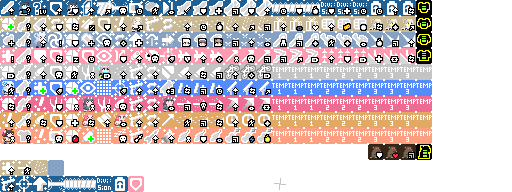
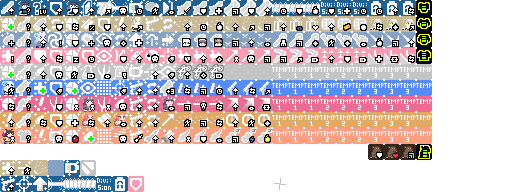
시로코 특성 아이콘 수정, 기본 문장 추가, 소개 문장 수정

Changed region(s): [[0.1562, 0.3125, 0.5312, 0.4375], [0.125, 0.8125, 0.1875, 0.9375], [0.0, 0.375, 0.0312, 0.4062]]

diff --git a/core/src/main/java/com/shatteredpixel/shatteredpixeldungeon/windows/WndHeroInfo.java b/core/src/main/java/com/shatteredpixel/shatteredpixeldungeon/windows/WndHeroInfo.java
@@ -217,6 +217,7 @@ public class WndHeroInfo extends WndTabbed {
 				case SHIROKO:
 					icons = new Image[]{ new ItemSprite(ItemSpriteSheet.BICYCLE),
 							new TalentIcon(Talent.SHIROKO_T1_2),
+							new TalentIcon(Talent.SHIROKO_T1_3),
 							new ItemSprite(ItemSpriteSheet.AR_TIER_1),
 							new ItemSprite(ItemSpriteSheet.SCROLL_ISAZ)};
 					break;